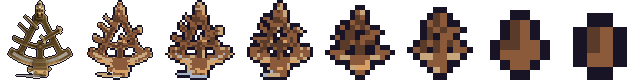
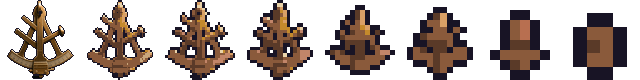
Photos: chroma-key cut with premultiplied resize, no-green palette, despill; green-screen plates
Claude-Session: https://claude.ai/code/session_01NzGmmpSLVGw3z6oBv4gsMN

diff --git a/scripts/photos/build_photos.py b/scripts/photos/build_photos.py
@@ -23,8 +23,13 @@ STAGES = [48, 32, 24, 16, 12, 8, 6]
 OUTLINE = (0x18, 0x14, 0x25)
 
 board = open(os.path.join(ROOT, "src/art/board.ts")).read()
-pal = sorted(set(re.findall(r'"#([0-9a-f]{6})"', board.split("export const OUTLINE")[0])))
-COLS = np.array([[int(h[i:i + 2], 16) for i in (0, 2, 4)] for h in pal], float)
+_ramps = re.findall(r'(\w+): \["#([0-9a-f]{6})", "#([0-9a-f]{6})", "#([0-9a-f]{6})"\]', board.split("export const OUTLINE")[0])
+def _cols(skip=()):
+    hexes = sorted({h for name, *hs in _ramps if name not in skip for h in hs})
+    return np.array([[int(h[i:i + 2], 16) for i in (0, 2, 4)] for h in hexes], float)
+COLS = _cols()
+# on a greenscreen nothing in the object is green (prompt rule), so leftover olive shadows must not snap to green
+COLS_NO_GREEN = _cols(("green", "lime", "teal"))
 
 
 def lab(rgb):
@@ -37,9 +42,10 @@ def lab(rgb):
 
 
 COLS_LAB = lab(COLS)
+NO_GREEN_LAB = lab(COLS_NO_GREEN)
 
 
-def snap(rgb, k):
+def snap(rgb, k, no_green=False):
     """k-means the stage to k colours, then snap each to the nearest palette colour."""
     flat = rgb.reshape(-1, 3)
     L = lab(flat)
@@ -51,8 +57,9 @@ def snap(rgb, k):
         for j in range(k):
             if (lb == j).any():
                 cent[j] = L[lb == j].mean(0)
-    s = ((cent[:, None] - COLS_LAB[None]) ** 2).sum(-1).argmin(1)
-    return COLS[s[lb]].reshape(rgb.shape)
+    cols, cl = (COLS_NO_GREEN, NO_GREEN_LAB) if no_green else (COLS, COLS_LAB)
+    s = ((cent[:, None] - cl[None]) ** 2).sum(-1).argmin(1)
+    return cols[s[lb]].reshape(rgb.shape)
 
 
 def outline(rgba):
@@ -65,9 +72,9 @@ def outline(rgba):
 
 
 def is_greenscreen(img):
-    a = np.asarray(img).astype(int)
-    edge = np.concatenate([a[0], a[-1], a[:, 0], a[:, -1]])
-    return np.median(edge[:, 1] - np.maximum(edge[:, 0], edge[:, 2])) > 60
+    """Mostly green image (the border can be a stray white frame the model drew)."""
+    a = np.asarray(img.resize((64, 64))).astype(int)
+    return ((a[..., 1] - np.maximum(a[..., 0], a[..., 2])) > 60).mean() > 0.3
 
 
 def chroma_key(img):
@@ -82,12 +89,19 @@ def chroma_key(img):
     lab_, n = ndimage.label(keep)
     if n:
         sizes = ndimage.sum(keep, lab_, range(1, n + 1))
-        big = 1 + np.flatnonzero(sizes >= max(200, sizes.max() * 0.002))
+        # drop anything touching the image edge (stray frames the model sometimes draws)
+        border = set(np.unique(np.concatenate([lab_[0], lab_[-1], lab_[:, 0], lab_[:, -1]]))) - {0}
+        inner = [i for i in range(1, n + 1) if i not in border]
+        if inner:
+            m = max(sizes[i - 1] for i in inner)
+            big = [i for i in inner if sizes[i - 1] >= max(200, m * 0.002)]
+        else:
+            big = 1 + np.flatnonzero(sizes >= max(200, sizes.max() * 0.002))
         keep = np.isin(lab_, big)
     keep = ndimage.binary_fill_holes(keep) & (greenness < 40) | (keep & (greenness < 40))
     # despill: green may not exceed the larger of red and blue
     out = rgb.copy()
-    out[..., 1] = np.minimum(g, np.maximum(r, b) + 6)
+    out[..., 1] = np.minimum(g, (r + b) / 2 + 4)
     rgba = np.zeros(rgb.shape[:2] + (4,), np.uint8)
     rgba[..., :3] = out.clip(0, 255).astype(np.uint8)
     rgba[..., 3] = np.where(keep, 255, 0)
@@ -123,18 +137,24 @@ def add_thin_parts(img, cut):
     return Image.fromarray(out, "RGBA")
 
 
-def stage(cut, n, final=False):
+def stage(cut, n, final=False, no_green=False):
     inner = n - 2  # leave room for the outline
-    im = cut.resize((inner, inner), Image.LANCZOS if final else Image.BOX)
-    arr = np.asarray(im).astype(float)
-    rgb, a = arr[..., :3], arr[..., 3]
+    # premultiply so the (keyed-out) backdrop colour never bleeds into edge pixels
+    src = np.asarray(cut).astype(np.float32)
+    al = src[..., 3] / 255
+    flt = Image.LANCZOS if final else Image.BOX
+    rs = lambda ch: np.asarray(Image.fromarray(ch.astype(np.float32), "F").resize((inner, inner), flt))
+    a1 = np.clip(rs(al), 0, 1)
+    rgb = np.stack([rs(src[..., c] * al) for c in range(3)], -1) / np.maximum(a1, 1e-3)[..., None]
+    rgb = rgb.clip(0, 255)
+    a = a1 * 255
     if not final:
         g = rgb.mean(-1, keepdims=True)
         rgb = np.clip(g + (rgb - g) * 1.2, 0, 255)
         k = 5 if n <= 8 else 8 if n <= 12 else 12 if n <= 24 else 16
         mask = a > (28 if n >= 24 else 90)
         if mask.any():
-            rgb[mask] = snap(rgb[mask][None], k)[0]
+            rgb[mask] = snap(rgb[mask][None], k, no_green)[0]
     out = np.zeros((n, n, 4), np.uint8)
     out[1:-1, 1:-1, :3] = rgb.astype(np.uint8)
     # a low threshold keeps thin parts (antennas, rods) from vanishing when shrunk
@@ -152,7 +172,8 @@ def main():
         if want and sid not in want:
             continue
         img = Image.open(f).convert("RGB")
-        cut = chroma_key(img) if is_greenscreen(img) else add_thin_parts(img, remove(img, session=sess))
+        green = is_greenscreen(img)
+        cut = chroma_key(img) if green else add_thin_parts(img, remove(img, session=sess))
         a = np.asarray(cut)[..., 3] > 128
         ys, xs = np.where(a)
         x0, x1, y0, y1 = np.percentile(xs, 0.3), np.percentile(xs, 99.7), np.percentile(ys, 0.3), np.percentile(ys, 99.7)
@@ -163,7 +184,7 @@ def main():
         sq.paste(cut, (-box[0], -box[1]))
         # soften the generated rim light a touch so it doesn't read as a cyan halo
         sq = sq.filter(ImageFilter.UnsharpMask(radius=2, percent=60, threshold=2))
-        tiles = [stage(sq, T, final=True)] + [stage(sq, n) for n in STAGES]
+        tiles = [stage(sq, T, final=True, no_green=green)] + [stage(sq, n, no_green=green) for n in STAGES]
         strip = Image.new("RGBA", (T * len(tiles), T))
         for i, t in enumerate(tiles):
             strip.paste(t, (i * T, 0))
